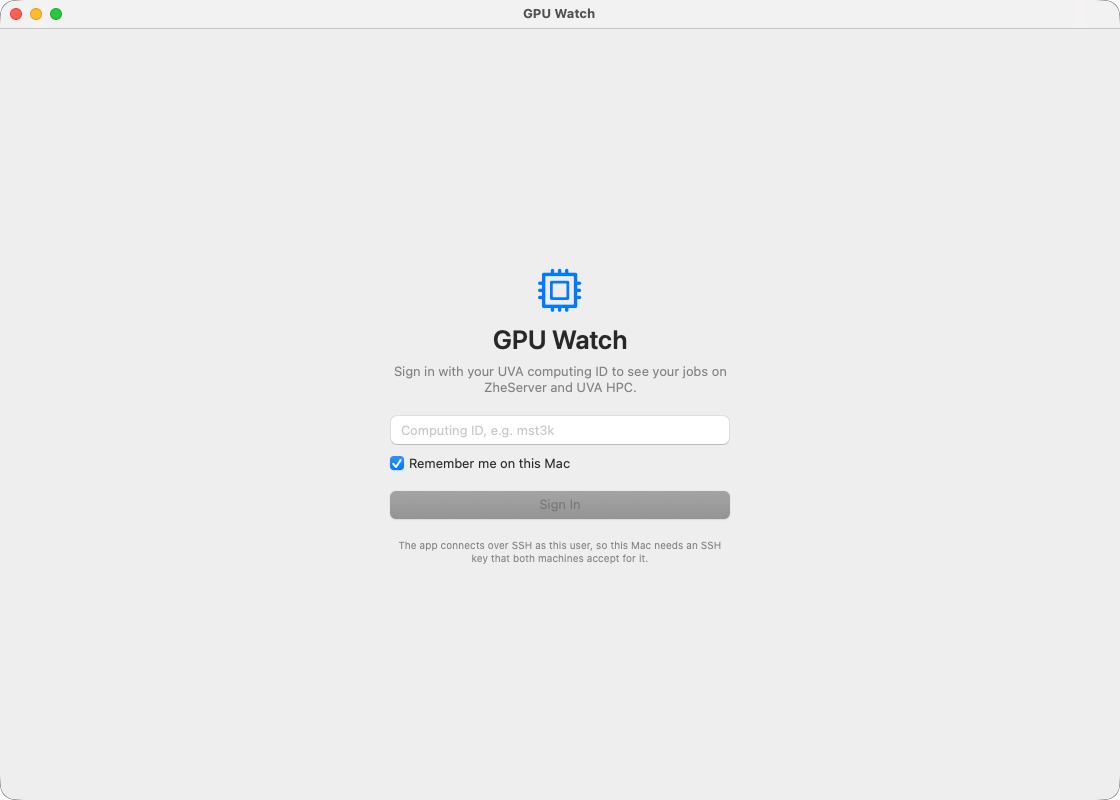
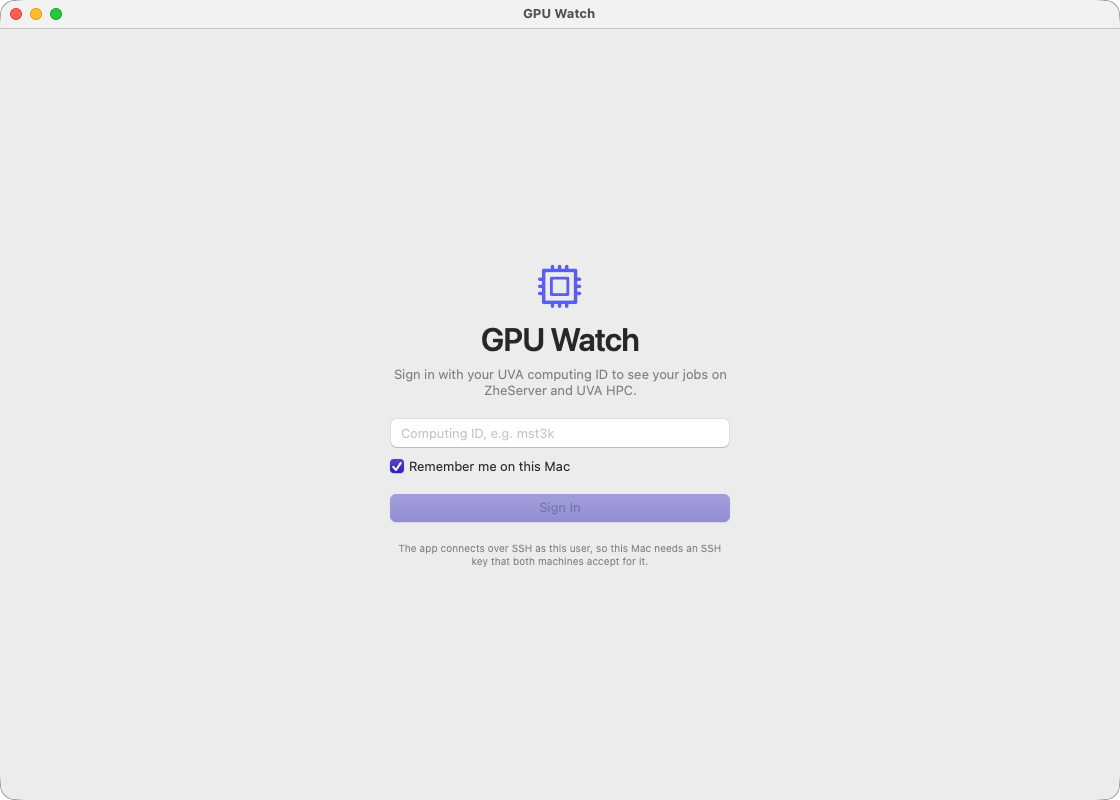
Fade content under the title bar; retake README screenshots
The title bar draws no background over the glass page, so scrolled
content ran into the title. It's now masked under the bar and fades in
just below it. Screenshots show the redesign, from the demo data.

Changed region(s): [[0.3438, 0.5312, 0.6562, 0.7188], [0.4062, 0.3125, 0.625, 0.5], [0.3438, 0.4375, 0.375, 0.4688]]

diff --git a/Sources/GPUWatch/ContentView.swift b/Sources/GPUWatch/ContentView.swift
@@ -118,7 +118,7 @@ struct FeedPage<Value, Content: View>: View {
                 .padding(24)
                 .frame(maxWidth: .infinity, alignment: .leading)
             }
-            .softTopEdge()
+            .fadesUnderTitleBar()
             // Under the title bar too, or the page and the bar above it meet in a hard step.
             .background {
                 ZStack {
@@ -175,13 +175,22 @@ private struct StaleBanner: View {
 }
 
 private extension View {
-    /// The title bar draws no background, so content scrolling under it fades out rather than
-    /// running into the title.
-    @ViewBuilder func softTopEdge() -> some View {
-        if #available(macOS 26.0, *) {
-            scrollEdgeEffectStyle(.soft, for: .top)
-        } else {
-            self
+    /// The title bar draws no background, so content scrolled under it is hidden there and fades
+    /// in just below, rather than running into the title. At rest nothing sits under the bar, so
+    /// this only shows once the page scrolls.
+    func fadesUnderTitleBar() -> some View {
+        mask {
+            GeometryReader { geometry in
+                let bar = geometry.safeAreaInsets.top
+                VStack(spacing: 0) {
+                    Color.clear.frame(height: bar)
+                    LinearGradient(colors: [.clear, .black], startPoint: .top, endPoint: .bottom)
+                        .frame(height: 14)
+                    Color.black
+                }
+                .frame(height: geometry.size.height + bar)
+                .offset(y: -bar)
+            }
         }
     }
 }
